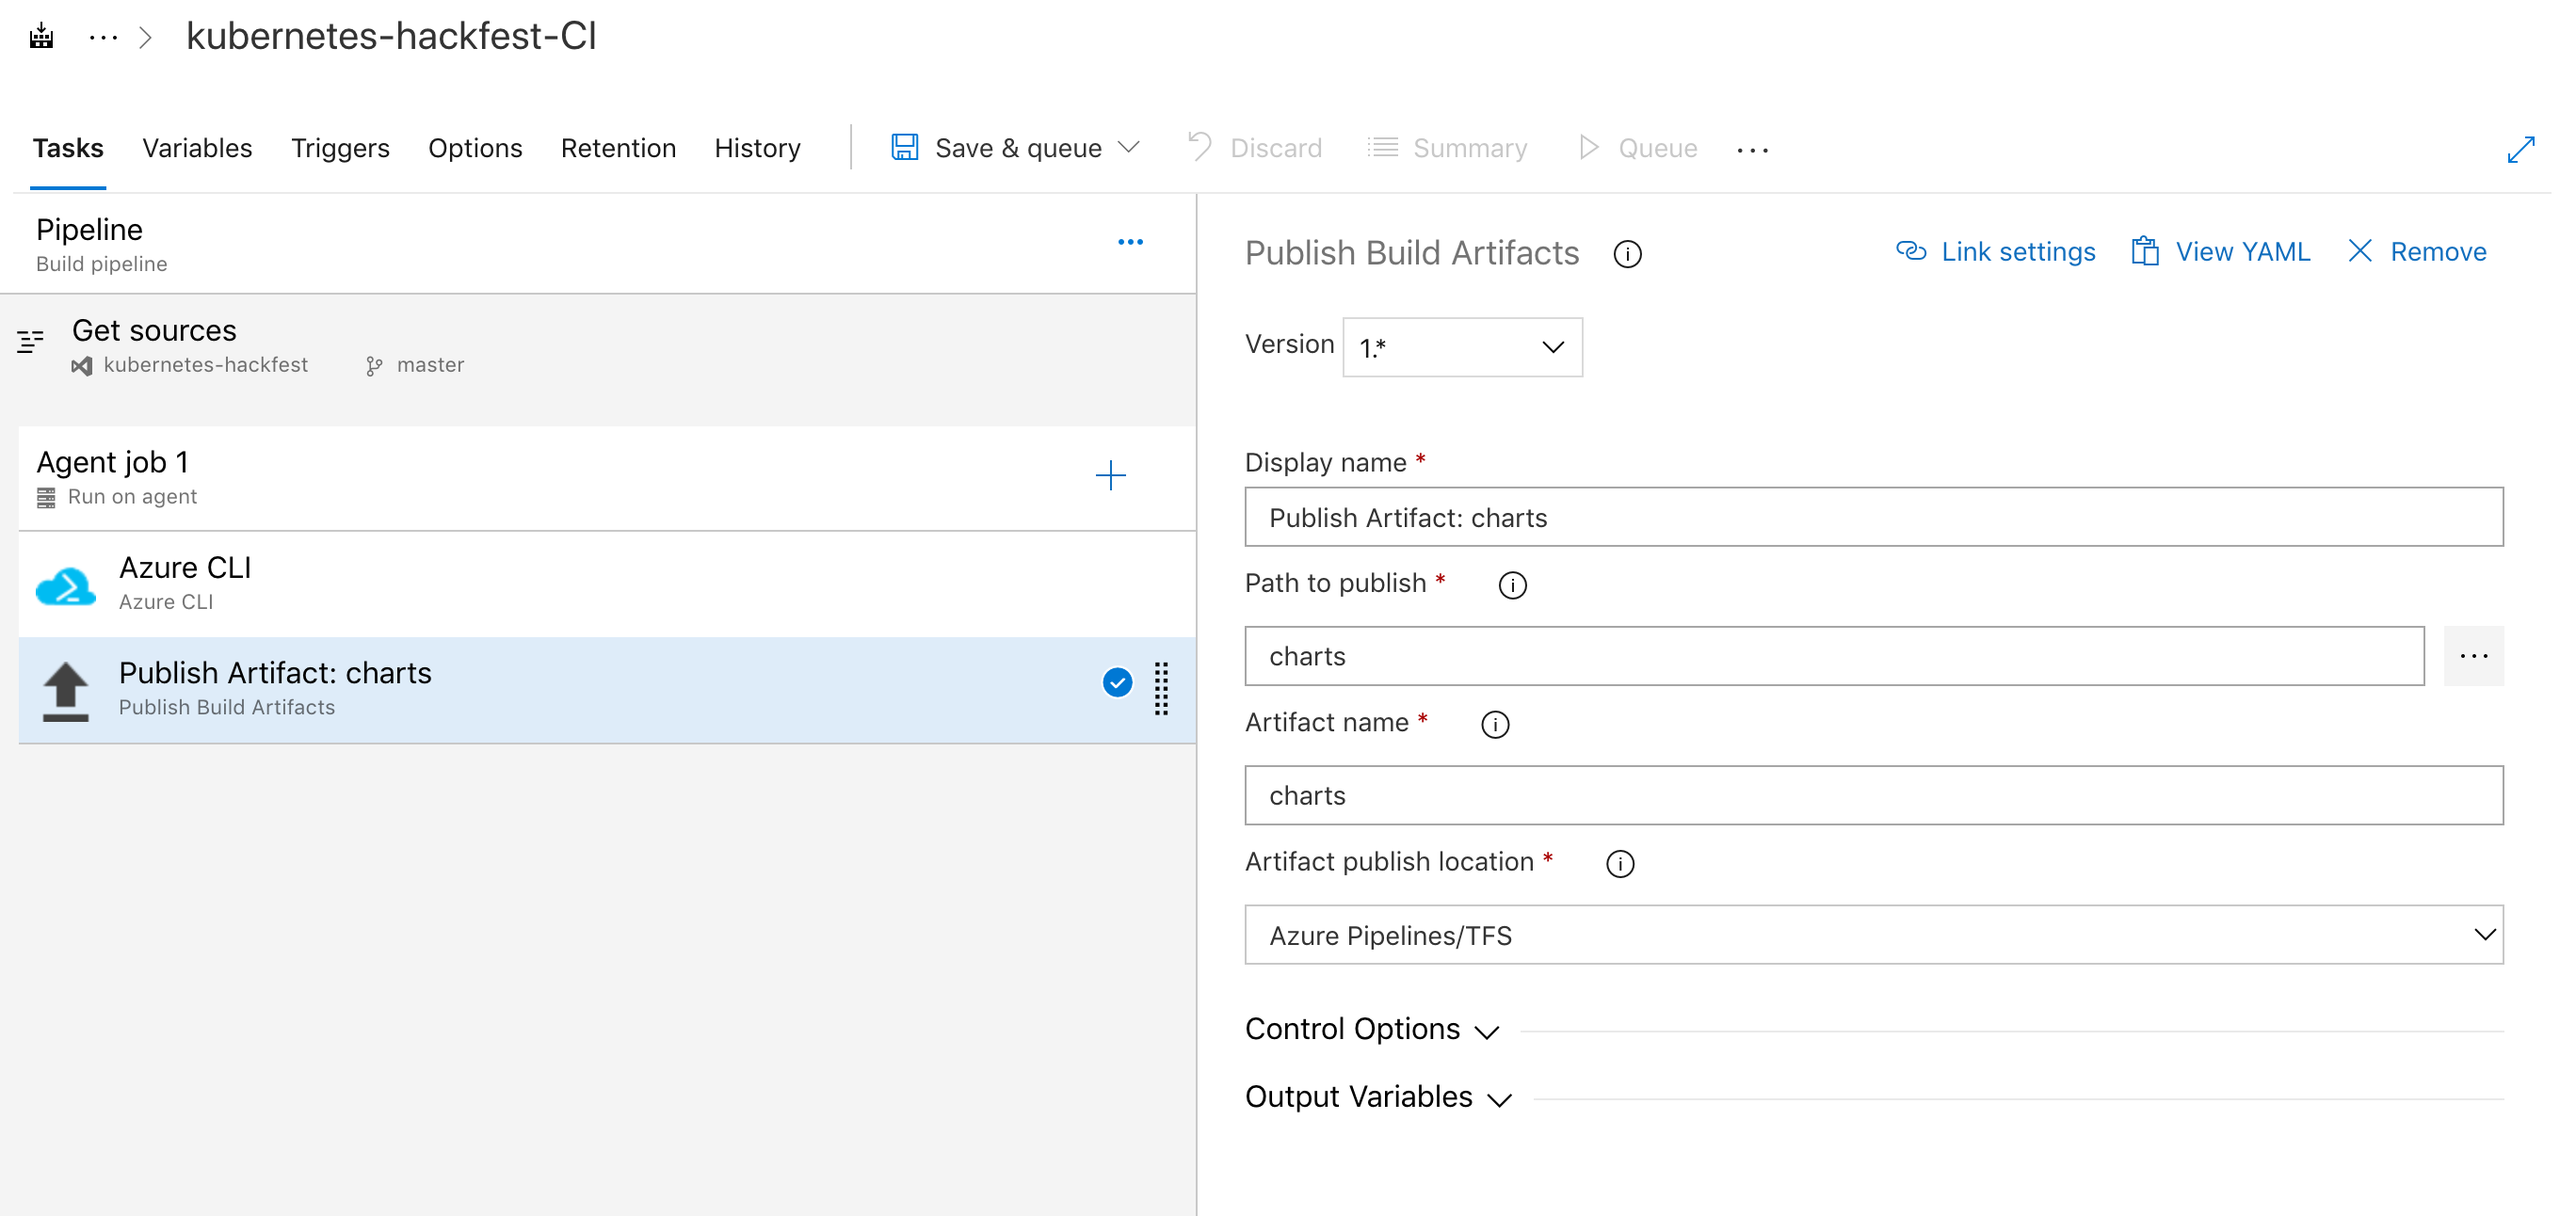
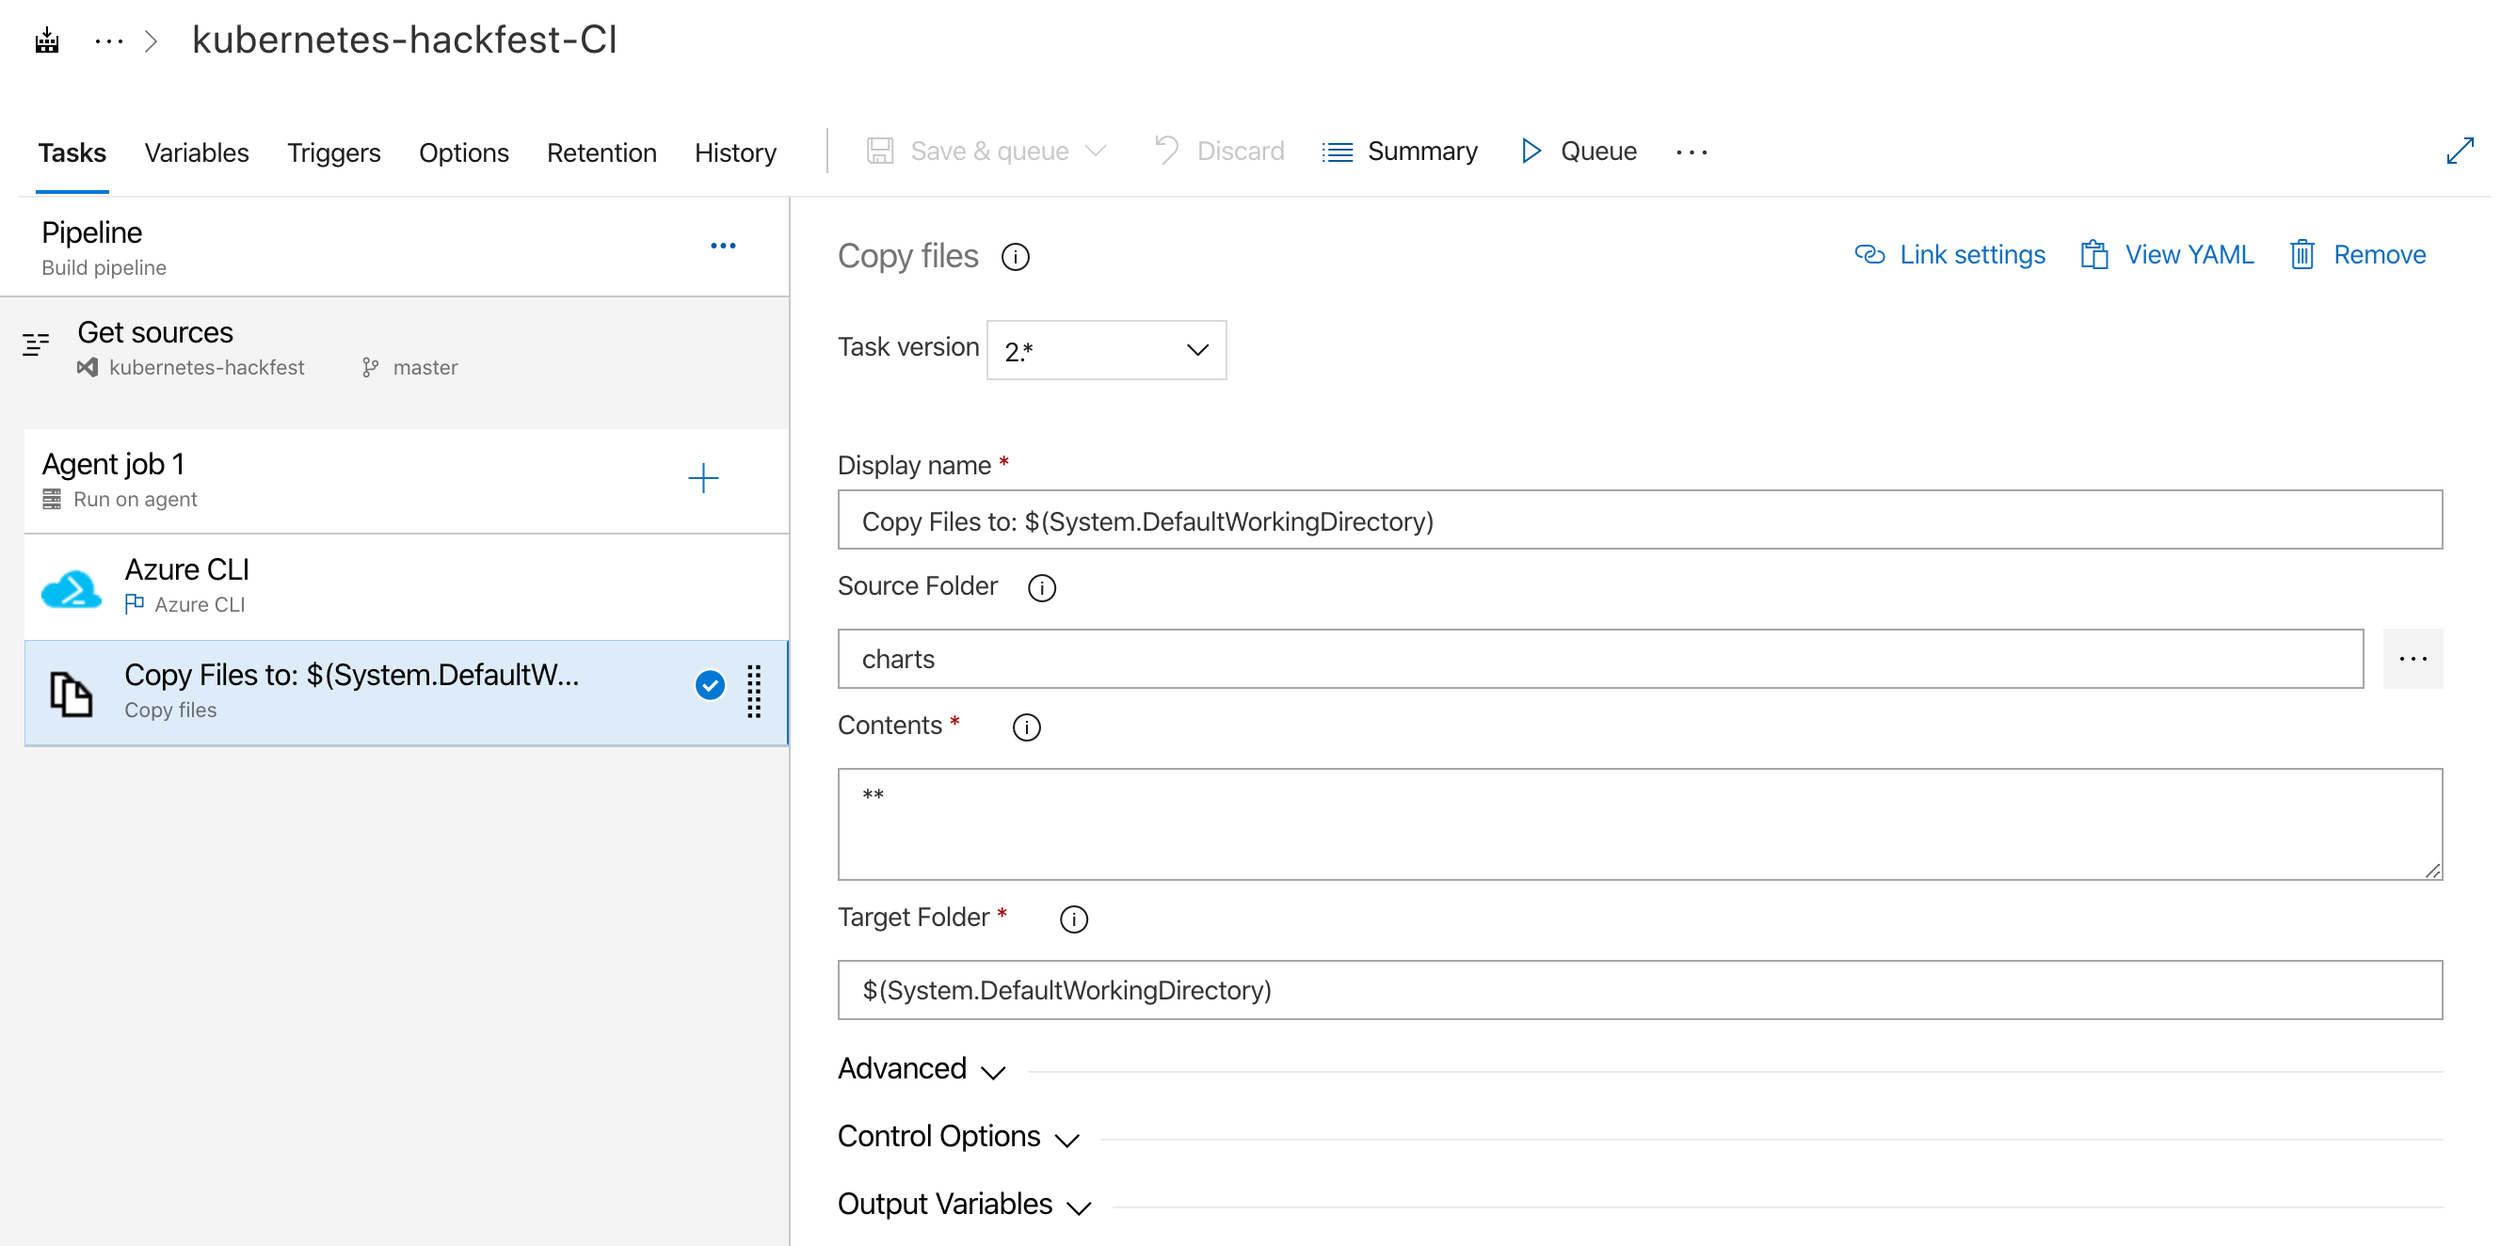
Fixed build and release pipeline steps to work with Helm 3 and new copy/publish process

diff --git a/labs/cicd-automation/azure-devops/README.md b/labs/cicd-automation/azure-devops/README.md
@@ -27,14 +27,14 @@ The general workflow/result will be as follows:
 
 1. Create a Azure DevOps organization/account. Follow the steps here: https://docs.microsoft.com/en-us/azure/devops/user-guide/sign-up-invite-teammates?view=vsts
 
-2. Create New Project in Azure DevOps
+1. Create New Project in Azure DevOps
 
     * Name your project "kubernetes-hackfest" and give it a description.
     * Leave the Version control as Git
 
     ![Azure DevOps New Project](azure-do-new-project.png)
 
-3. On the next screen, click "Repos" and then "import a repository"
+1. On the next screen, click "Repos" and then "import a repository"
 
     Enter `https://github.com/Azure/kubernetes-hackfest` for the Clone URL and click "Import"
     
@@ -45,30 +45,30 @@ The general workflow/result will be as follows:
 
 1. In Azure DevOps, click on "Pipelines" on the left menu and then click "Builds"
 
-2. Click the "New pipeline" button
+1. Click the "New pipeline" button
 
-3. Azure DevOps pipelines now defaults to the yaml based editing experience. The following steps assume classic mode, so you should select 'Use the classic editor' as shown below.
+1. Azure DevOps pipelines now defaults to the yaml based editing experience. The following steps assume classic mode, so you should select 'Use the classic editor' as shown below.
 
     ![Switch to Classic Mode](azure-do-use-classic.png)
 
-4. In "Select a source," use `Azure Repos Git` and ensure it is pointing to your newly built repo (this is the default)
+1. In "Select a source," use `Azure Repos Git` and ensure it is pointing to your newly built repo (this is the default)
     > Note that we are using the master branch here. Normally we would use other branches and PR's. For simplicity, we are using master just for this lab.
 
-5. Select to "start with an Empty job"
+1. Select to "start with an Empty job"
 
-6. Leave the name as "kubernetes-hackfest-CI"
+1. Leave the name as "kubernetes-hackfest-CI"
 
-7. Change the Agent pool to use the "Hosted Ubuntu 1804"
+1. Make sure the Agent pool is set to 'Azure Pipelines' and the Agent Specification is set to use the 'ubuntu-1804'
 
-8. Click the plus sign by "Agent job 1" to add a task
+1. Click the plus sign by "Agent job 1" to add a task
 
-9. Search tasks for "Azure" and add the Azure CLI task
+1. Search tasks for "Azure" and add the Azure CLI task
 
     ![Azure DevOps Azure CLI](azure-do-azurecli.png)
 
-10. Click on the Azure CLI task and choose your Azure subscription and `Authorize`
+1. Click on the Azure CLI task and choose your Azure subscription and `Authorize`
 
-11. For "Script Location" choose "Inline script" and enter the following (be sure to replace the ACR name with yours). 
+1. For "Script Location" choose "Inline script" and enter the following (be sure to replace the ACR name with yours). 
 
     > Note: We are creating a dynamic image tag using our build ID from Azure DevOps.
 
@@ -86,15 +86,19 @@ The general workflow/result will be as follows:
 
     ![Azure DevOps CLI](azure-do-cli.png)
 
-12. Add another task to "Agent job 1" and search for "Copy files". Use "charts" for the artifact name and browse to the charts folder for the "Path to publish"
+1. Add another task to "Agent job 1" and search for "Copy files". Use "charts" for the artifact name and browse to the charts folder for the "Path to publish". Under 'Target Folder' enter $(System.DefaultWorkingDirectory).
 
     ![Azure DevOps Artifact](azure-do-artifact.png)
 
-13. Test this by clicking "Save & queue" and providing a comment
+1. Add a final task to "Agent job 1" and search for "Publish Build Artifacts". You can leave the default settings for this task.
 
-14. Click on "Builds" to check result. It can take a bit of time for all of the steps to complete. 
+    ![Azure DevOps Artifact](azure-do-publish.png)
 
-15. Enable Continuous integration for the build definition. Edit the build definition and you will find this setting under "Triggers"
+1. Test this by clicking "Save & queue" and providing a comment
+
+1. Click on "Builds" to check result. It can take a bit of time for all of the steps to complete. 
+
+1. Enable Continuous integration for the build definition. Edit the build definition and you will find this setting under "Triggers"
 
 #### Create Deployment Pipeline
 
@@ -104,37 +108,37 @@ In the deployment pipeline, we will create a Helm task to update our application
 
 1. In Azure DevOps, click on "Pipelines" on the left menu and then click "Releases"
 
-2. Click the "New pipeline" button
+1. Click the "New pipeline" button
 
-3. Select to "start with an Empty job"
+1. Select to "start with an Empty job"
 
-4. Name the pipeline "AKS Helm Deploy" (it will default to "New release pipeline")
+1. Name the pipeline "AKS Helm Deploy" (it will default to "New release pipeline")
 
-5. Click on "+ Add" next to Artifacts
+1. Click on "+ Add" next to Artifacts
 
-6. In "Source (build pipeline)", select the build we created earlier (should be named "kubernetes-hackfest-CI")
+1. In "Source (build pipeline)", select the build we created earlier (should be named "kubernetes-hackfest-CI")
 
     ![Azure DevOps Release Artifact](azure-do-release-artifact.png)
 
-7. Click on the lightning bolt next to the Artifact we just created and enable "Continuous deployment trigger"
+1. Click on the lightning bolt next to the Artifact we just created and enable "Continuous deployment trigger"
 
-8. Click on "Stage 1" in the Stages box.
+1. Click on "Stage 1" in the Stages box.
 
-9. Name the stage "dev"
+1. Name the stage "dev"
 
-10. Click on "1 job, 0 task" to view stage tasks
+1. Click on "1 job, 0 task" to view stage tasks
 
-11. Click on "Agent job" and change the Agent pool to "Hosted Ubuntu 1804" in the drop down
+1. Click on "Agent job" and change the Agent pool to "Azure Pipelines" and the Agent Specification to "ubuntu-1804" in the drop down
 
-12. On the Agent job, click the "+" to add a Task
+1. On the Agent job, click the "+" to add a Task
 
-13. Search for "helm" and add the task called "Helm Tool Installer" as first task. Click Add
+1. Search for "helm" and add the task called "Helm Tool Installer" as first task. Click Add
 
     > Change the version for the helm install to `3.0.1`
 
-14. Next, Search for "helm" and add the task called "Package and deploy Helm charts". Click Add
+1. Next, Search for "helm" and add the task called "Package and deploy Helm charts". Click Add
 
-15. Click on the task (named "helm ls") to configure all of the settings for the release
+1. Click on the task (named "helm ls") to configure all of the settings for the release
     
     * Select your Azure subscription in the dropdown and click "Authorize"
     * Select the Resource Group and AKS Cluster
@@ -154,17 +158,17 @@ In the deployment pipeline, we will create a Helm task to update our application
 
 1. In Azure DevOps, click on Builds and click the "Queue" button
 
-2. Monitor the builds and wait for the build to complete
+1. Monitor the builds and wait for the build to complete
 
     ![Azure DevOps Build](azure-do-build.png)
 
-3. The release will automatically start when the build is complete (be patient, this can take some time). Review the results as it is complete. 
+1. The release will automatically start when the build is complete (be patient, this can take some time). Review the results as it is complete. 
 
     ![Azure DevOps Release](azure-do-release.png)
 
-4. Validate that your newly built image was deployed in your AKS cluster. Eg - `kubectl describe pod service-tracker-ui-<pod id> -n hackfest`
+1. Validate that your newly built image was deployed in your AKS cluster. Eg - `kubectl describe pod service-tracker-ui-<pod id> -n hackfest`
 
-5. Now kick-off the full CI/CD pipeline by making an edit to the service-tracker-ui frontend code in the Azure DevOps code repo.
+1. Now kick-off the full CI/CD pipeline by making an edit to the service-tracker-ui frontend code in the Azure DevOps code repo.
 
 ## Troubleshooting / Debugging
 
